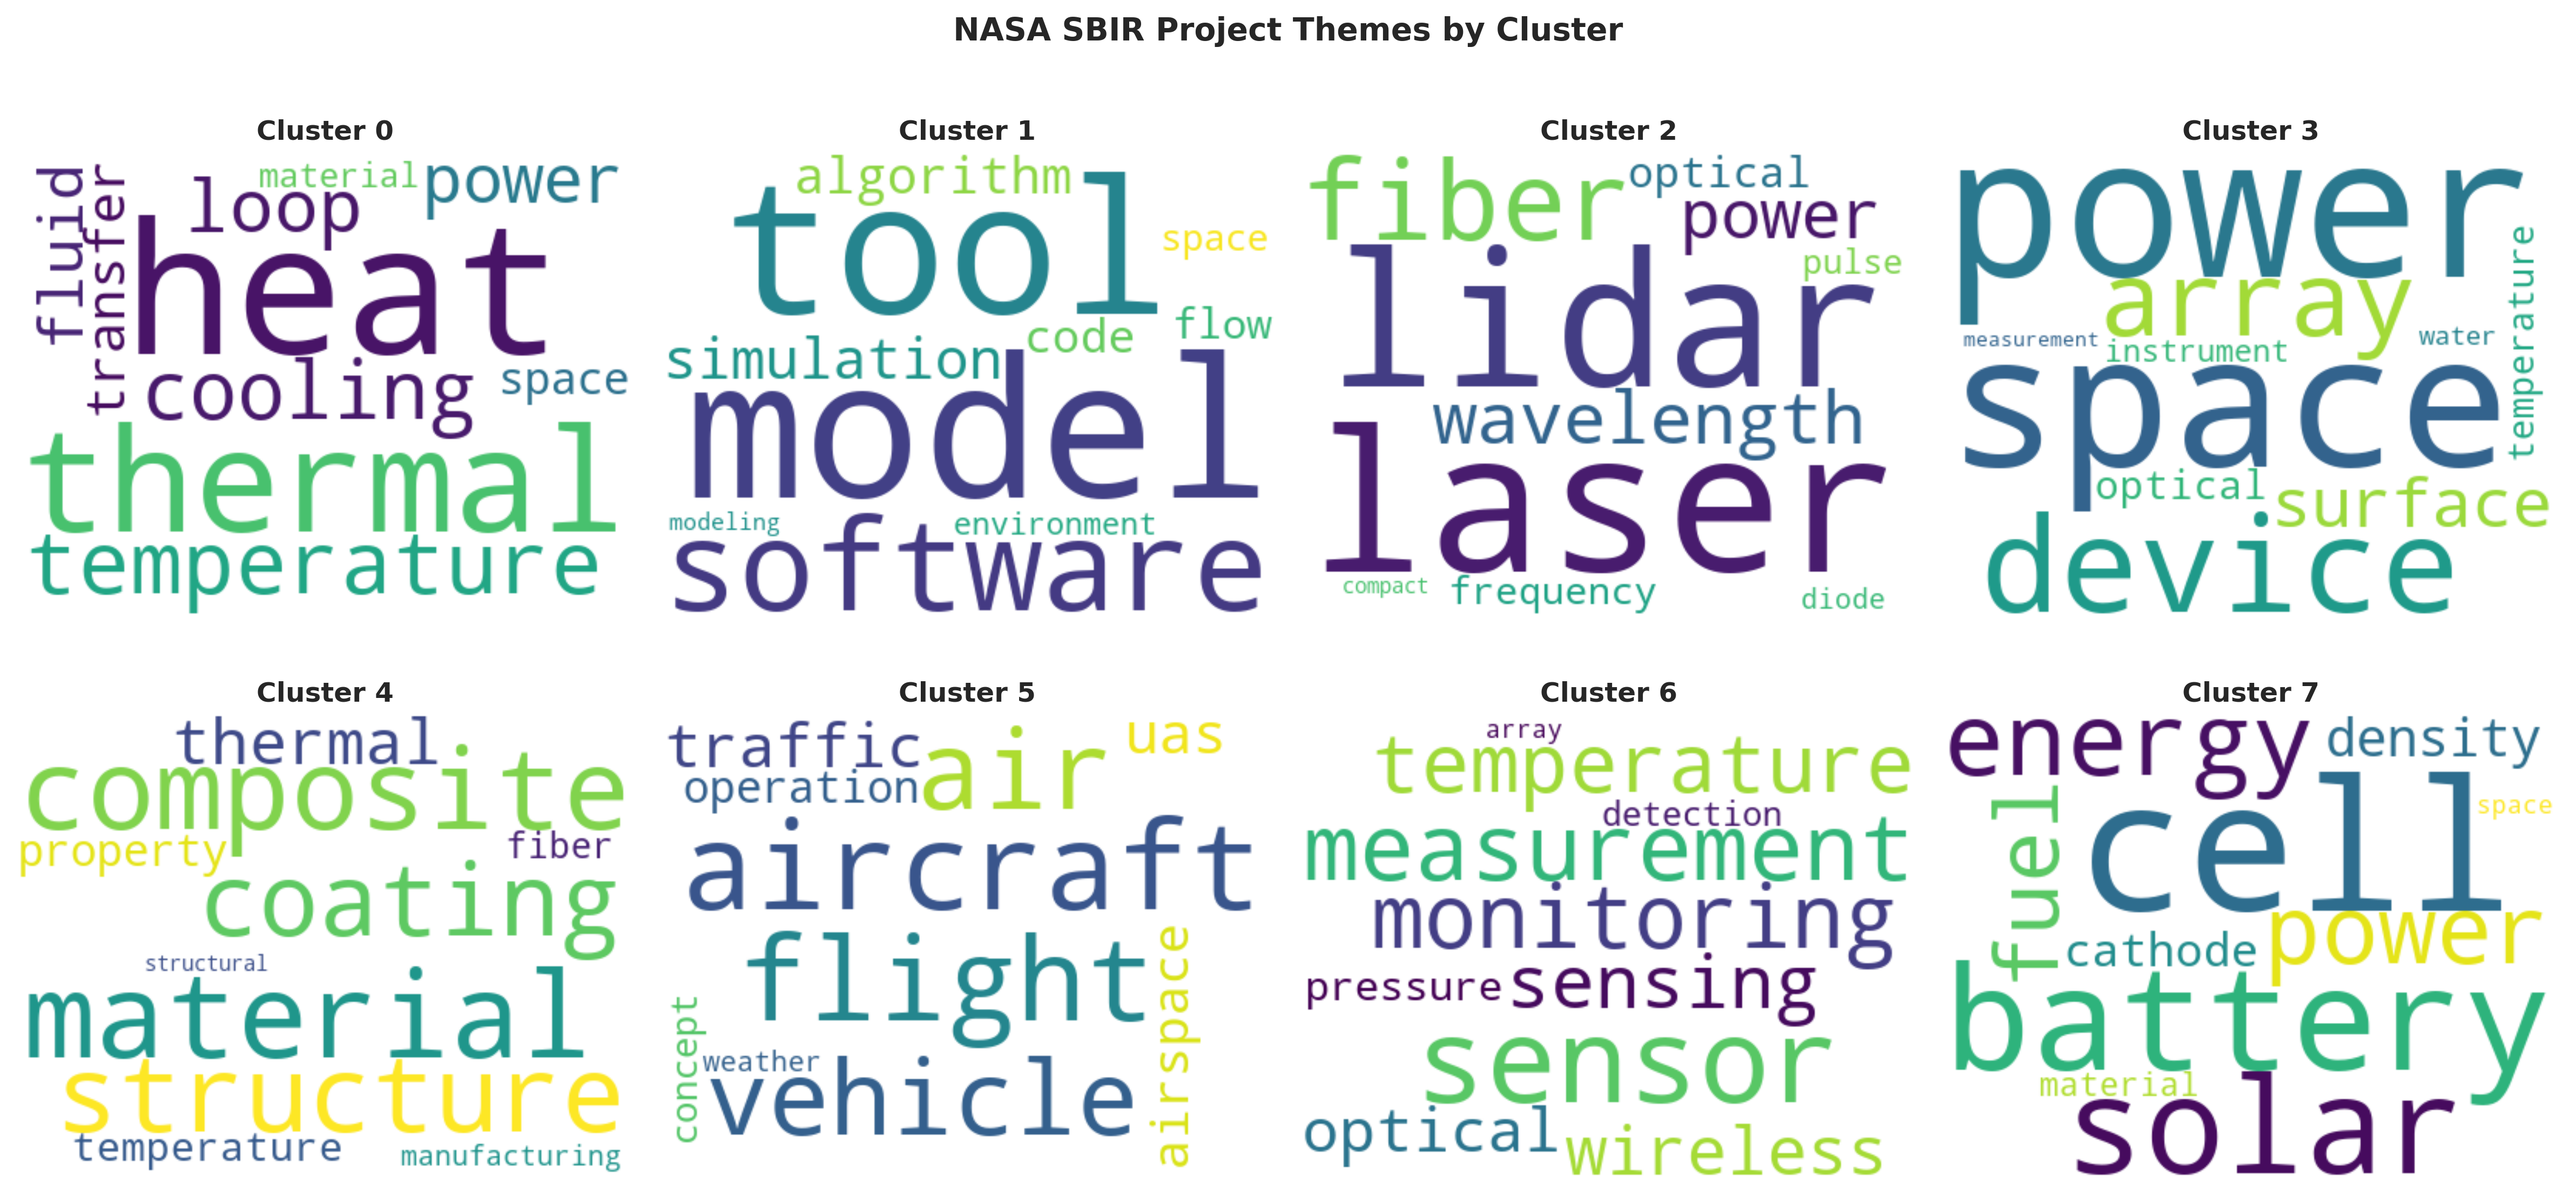
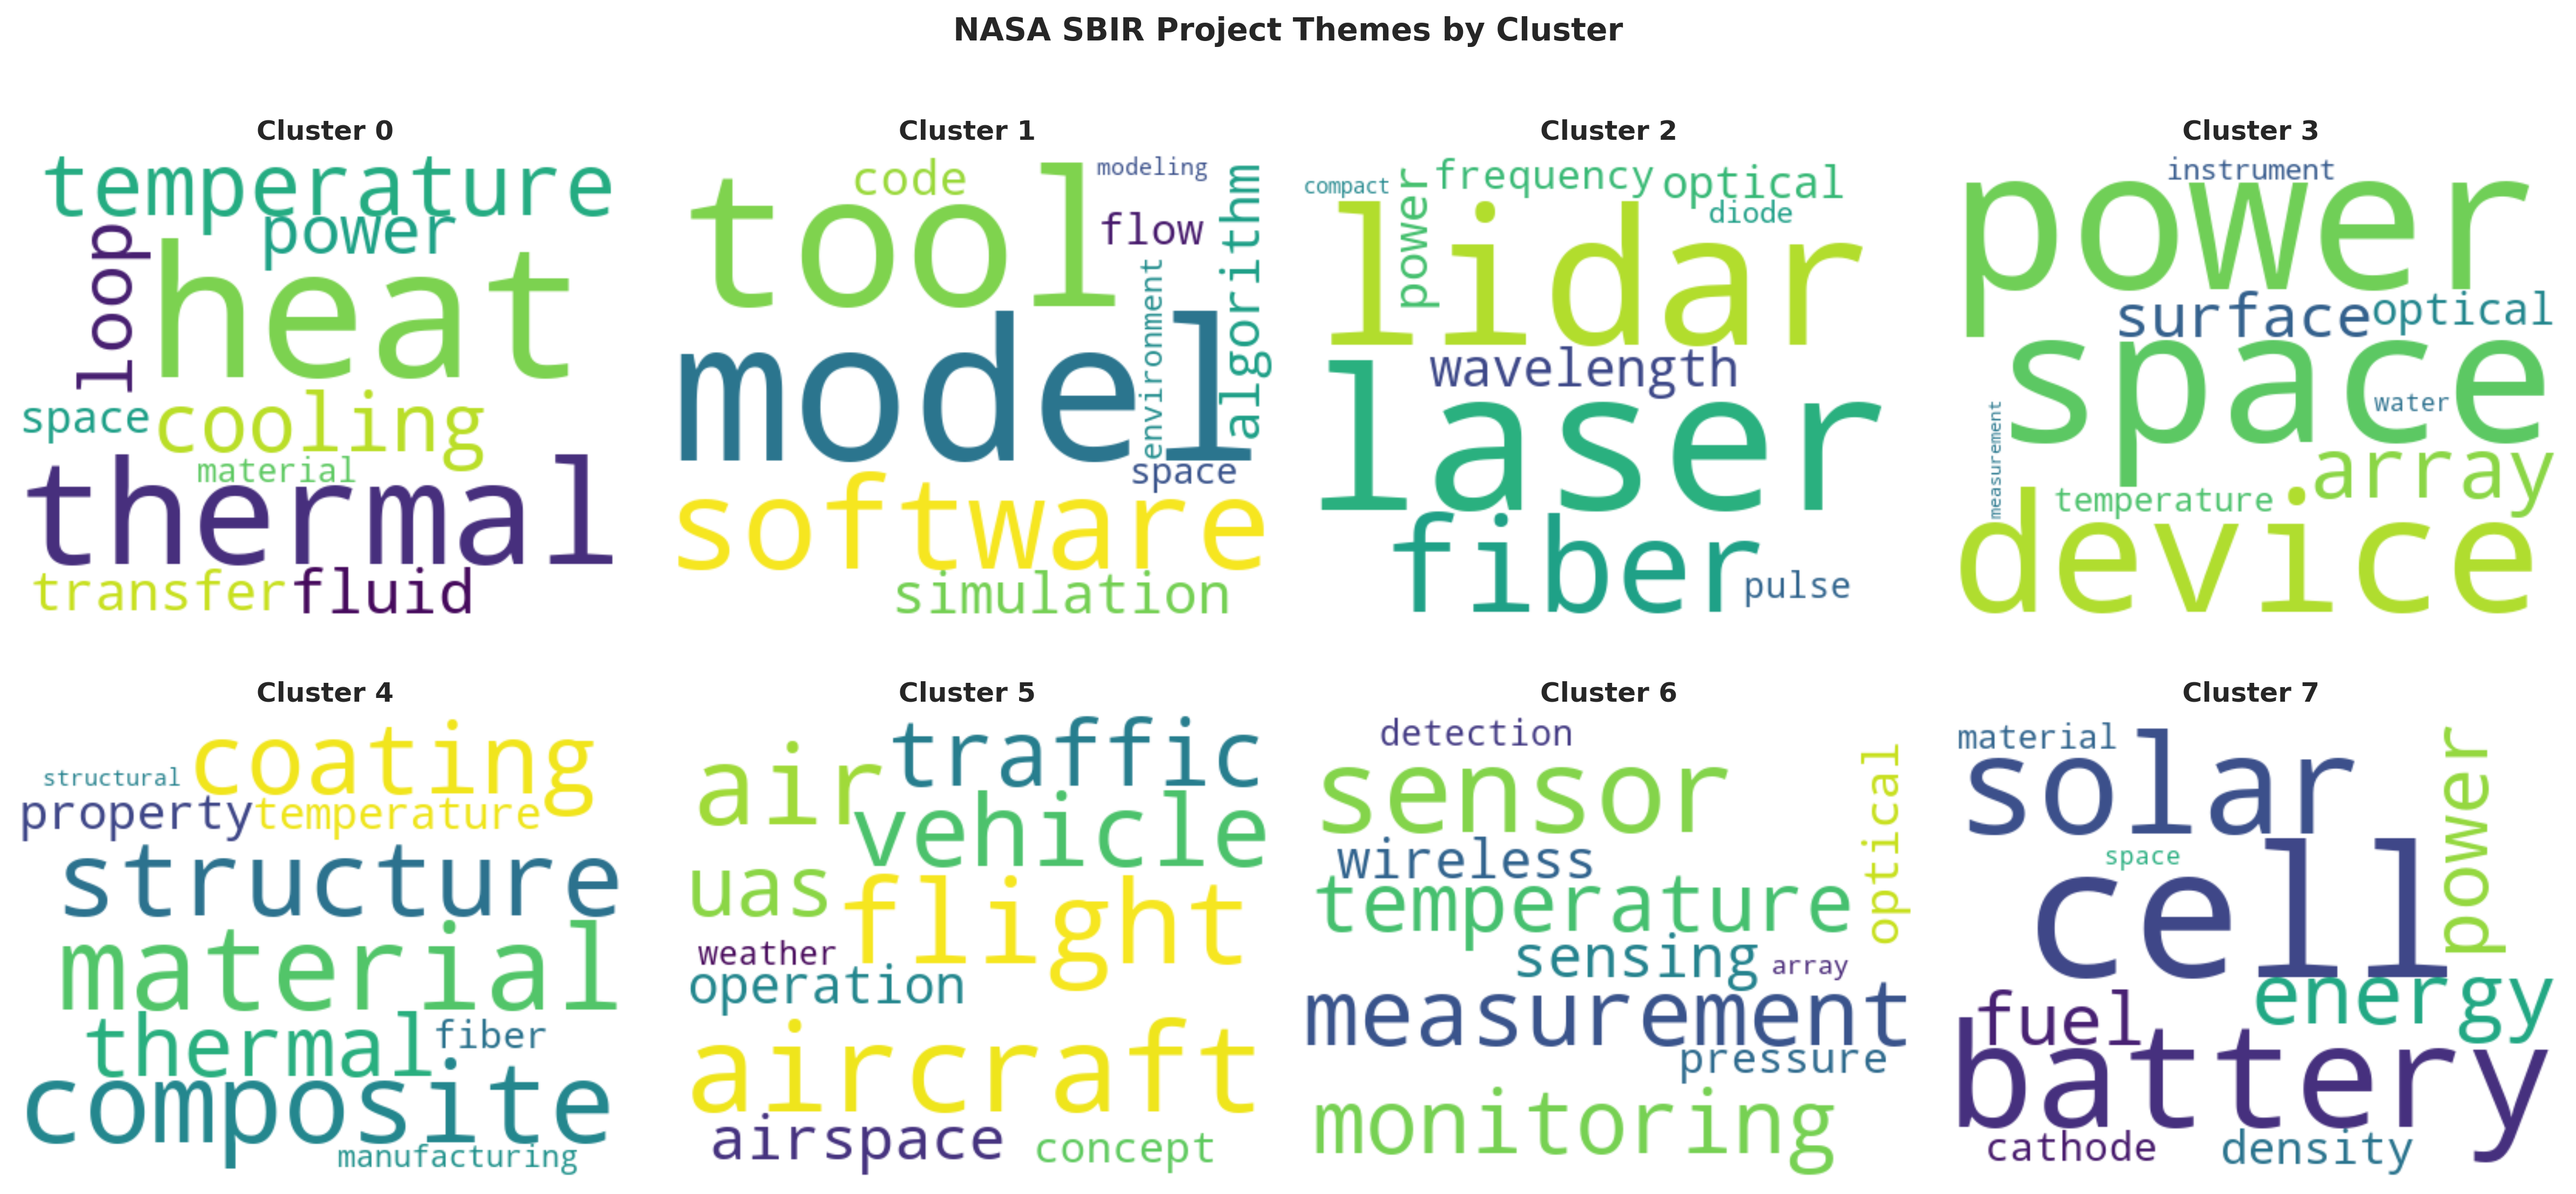
Cleaning

diff --git a/final project/src/models.py b/final project/src/models.py
@@ -220,8 +220,8 @@ def regression_on_clusters(cluster_labels, y, cluster_terms):
     print("REGRESSION ON PROJECT TYPES")
     print("-" * 50)
     print("""
-    Method: Use cluster membership as features (one-hot encoding)
-    Question: Does project TYPE predict funding level?
+    Method: Use cluster membership as input features
+    Question: Does project theme predict funding level?
     """)
     
     # One-hot encode clusters

diff --git a/final project/main.py b/final project/main.py
@@ -56,10 +56,11 @@ def main():
     print("\n" + "=" * 70)
     print("STEP 2: TEXT PREPROCESSING")
     print("=" * 70)
-    
-    show_cleaning_example()
+
     df = process_abstracts(df)
     
+    show_cleaning_example()
+
     # =========================================================================
     # STEP 3: FEATURE ENGINEERING
     # =========================================================================

diff --git a/final project/src/feature_engineering.py b/final project/src/feature_engineering.py
@@ -82,5 +82,4 @@ if __name__ == "__main__":
     tfidf_matrix, vectorizer = create_tfidf_features(df)
     X, y, feature_names = prepare_features_for_modeling(df, tfidf_matrix, vectorizer)
     
-    print("\nFeature engineering complete!")
-    print(f"Ready for modeling with {X.shape[1]} features")
+    print("\nFeature engineering complete.")
